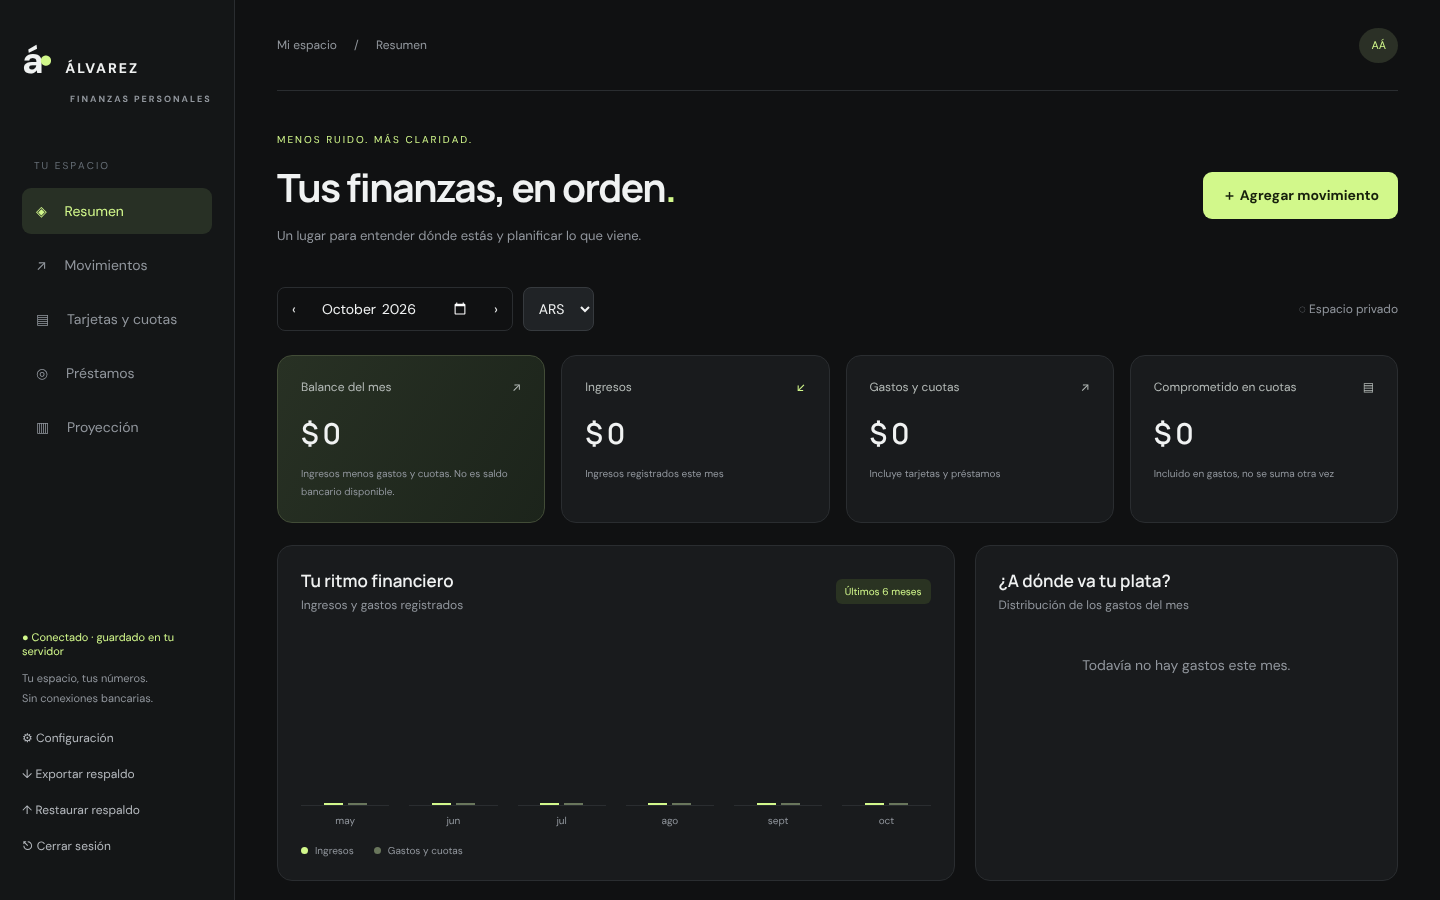
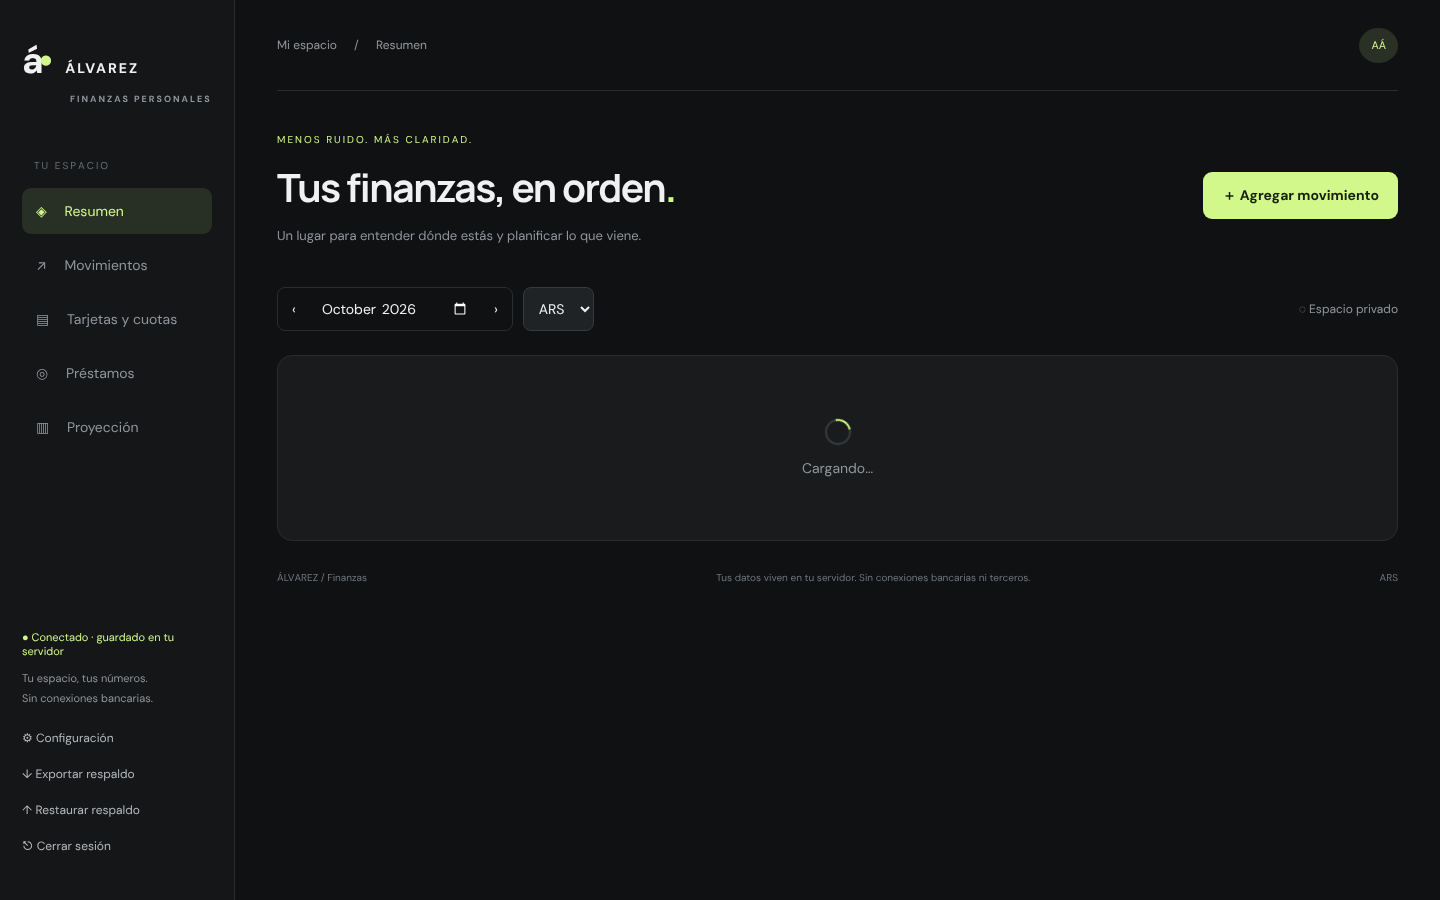
Estado: auditoría contra la especificación, correcciones y revisión; pendientes reales actualizados
- IMPLEMENTATION-STATUS: resultados de la auditoría y de la revisión adversarial, pruebas
  ejecutadas (79 unitarias, 72 de integración, 101 de frontend, E2E 11/11), operaciones
  ejecutadas en el despliegue de prueba y lista de pendientes que dependen de la VPS o del
  propietario. Sin la IP de la VPS en el repositorio.
- ASVS-L2: el contenedor de backup corre como uid 1654; root solo en la extracción de restauraciones.
- Capturas visuales regeneradas por el E2E.

Claude-Session: https://claude.ai/code/session_01Uy4Mof25YDrB6waqMWu1K8

diff --git a/docs/IMPLEMENTATION-STATUS.md b/docs/IMPLEMENTATION-STATUS.md
@@ -1,6 +1,6 @@
 # Estado de implementación
 
-Actualizado: 22/10/2026. Rama `implementacion-v1` del repo `augussto12/eBalance`. Todo se construyó y verificó en un contenedor cloud de desarrollo (Linux, Docker 29.9, .NET SDK 10.0.113, Node 22.22, Chromium 141.0.7390.37). **No se tocó la VPS.**
+Actualizado: 23/10/2026. Rama `implementacion-v1` del repo `augussto12/eBalance`. Todo se construyó y verificó en un contenedor cloud de desarrollo (Linux, Docker 29.9, .NET SDK 10.0.113, Node 22.22, Chromium 141.0.7390.37). **No se tocó la VPS.**
 
 ## Resumen honesto
 
@@ -8,13 +8,22 @@ La app funciona de punta a punta en local sobre el stack de producción: TLS →
 
 **No está lista para datos reales** hasta completar en la VPS: HTTPS real, `preflight.sh` en verde, copia de backup fuera del servidor y un `restore-test.sh` exitoso ahí (gates de `AGENTS.md`). No es una auditoría de seguridad: es una implementación con pruebas, que pueden no cubrir todo.
 
+**Auditoría contra la especificación (23/10/2026).** Fue independiente y multiagente, y verificó cada hueco: revisó unos 385 requisitos de docs/00–06 y `AGENTS.md`. El resultado inicial fue:
+- 262 hechos y probados;
+- 56 hechos sin prueba;
+- 46 parciales;
+- 2 faltantes;
+- 14 que dependen de la VPS o de una decisión del propietario.
+
+Se corrigieron los huecos del repositorio en cinco ramas: pagos y planes, claves y seguridad, detalles de UI, operación y documentación. Después hubo una revisión adversarial del resultado: confirmó 23 hallazgos, todos corregidos y probados (ver «Bugs encontrados»). Lo que sigue abierto está en «Pendiente».
+
 ## Fases
 
 | Fase | Estado | Evidencia |
 |---|---|---|
-| 1. Inventario, versiones, dominio exacto | Hecha | `docs/VERSIONES.md`; 45 pruebas unitarias |
+| 1. Inventario, versiones, dominio exacto | Hecha | `docs/VERSIONES.md`; 79 pruebas unitarias |
 | 2. UI React fiel a `reference/` | Hecha | CSS original portado sin cambios; diferencia de píxeles 1,1 % (1440×900) y 1,1 % (390×844) — ver abajo |
-| 3. Auth, MFA, sesiones, ownership, esquema | Hecha | 28 pruebas de integración contra PostgreSQL 18 real |
+| 3. Auth, MFA, sesiones, ownership, esquema | Hecha | 72 pruebas de integración contra PostgreSQL 18 real; filtro global por propietario como defensa adicional; key ring que falla cerrado |
 | 4. CRUD, cuotas, pagos, transferencias, resumen, proyección | Hecha | Integración + E2E |
 | 5. Importación del prototipo y exportación/restauración versionada | Hecha | Integración + E2E |
 | 6. Endurecimiento, imágenes, Compose, Nginx, backup/restore, docs | Hecha en local | Scripts ejecutados (ver abajo). Instalador de la VPS probado en un entorno que la simula; **despliegue en la VPS real pendiente** |
@@ -23,24 +32,30 @@ La app funciona de punta a punta en local sobre el stack de producción: TLS →
 
 | Comando | Resultado |
 |---|---|
-| `dotnet test --project tests/unit/AlvarezFinanzas.UnitTests` | 45/45 OK |
-| `dotnet test --project tests/integration/AlvarezFinanzas.IntegrationTests` | 28/28 OK (Testcontainers, `postgres:18.6-alpine3.24`) |
-| `npx vitest run` (src/web) | 19/19 OK |
+| `dotnet build AlvarezFinanzas.slnx -c Release` (advertencias = errores) | OK, 0 advertencias |
+| `dotnet test --project tests/unit/AlvarezFinanzas.UnitTests` | 79/79 OK |
+| `dotnet test --project tests/integration/AlvarezFinanzas.IntegrationTests` | 72/72 OK (Testcontainers, `postgres:18.6-alpine3.24`) |
+| `npx vitest run` (src/web) | 101/101 OK |
 | `npm run build` / `tsc --noEmit` (src/web) | OK, sin errores de tipos |
-| `./infra/e2e/run.sh` (Playwright, stack completo con TLS) | 11/11 OK |
+| `./infra/e2e/run.sh` (Playwright, stack completo con TLS) | 11/11 OK (23/10/2026, sobre el código final, con Chromium 141 del entorno) |
 | `./infra/scripts/preflight.sh` (stack E2E levantado) | Preflight OK (incluye TLS y `check-config`) |
 | `./infra/scripts/backup.sh` | OK (restic 0.19.1, `restic check` sin errores) |
 | `./infra/scripts/restore-test.sh` | resultado=OK, 15–19 s; «Coincide con producción»; TOTP descifrable 1/1 |
 | `./infra/scripts/restore.sh latest` (pérdida simulada) | OK: 6/6 movimientos recuperados; tablas a nombre del migrador; sesiones revocadas |
 | `./infra/scripts/restore.sh latest --with-keyring` | OK |
 | `./infra/scripts/rotate-secrets.sh db-app` y `keyring-cert` | OK: la API reconecta y el certificado anterior descifra las claves viejas |
+| `./infra/scripts/rotate-secrets.sh db-app db-migrator keyring-cert restic` + `restic-confirm` (despliegue de prueba) | OK: API sana, backup posterior con la clave nueva del migrador, restore-test con el certificado rotado (TOTP 1/1) |
+| `./infra/scripts/deploy.sh --rollback <tag>` (dos veces) y con un tag inexistente | OK con smoke tests y `.release-history`; el tag inexistente se rechaza antes de tocar nada |
+| `infra/tests/offsite-backup.sh` (copia externa contra rest-server con autenticación y contra un destino de solo agregar) | OK: credenciales validadas, copia incremental, `--verify-offsite` con un dump de 433 KB, rotación de restic en dos fases |
+| `restore.sh --keyring-only` tras simular la pérdida del volumen de claves | OK: vuelve el key ring anterior, la base no se toca; un backup con `/keys` vacío falla y no reemplaza al último key ring |
+| Escaneo de imágenes (Trivy fijado, en CI y con `infra/scripts/scan-images.sh`) | Sin HIGH/CRITICAL corregibles en api, web y backup; excepciones con vencimiento en `infra/trivy-ignore.yaml` (restic 0.19.1, upstream) |
 | `./infra/scripts/recover-owner.sh` (stdin) | OK: MFA reiniciado, sesiones revocadas, evento `cli.recover_owner` |
 | `./infra/scripts/maintenance.sh` | OK |
 | `dotnet list … package --vulnerable --include-transitive` | Sin vulnerabilidades |
 | `npm audit` (web y e2e) | 0 vulnerabilidades |
 | Modo desarrollo (`dotnet run` + `vite` con proxy) | Login por el proxy: OK |
-| GitHub Actions `ci` (run 39853251610) | backend, frontend, images y secrets: OK |
-| `vps-install.sh --inspect` y la instalación completa, en un entorno que simula la VPS (Ubuntu 24.04, nginx 1.24 del host, IP 31.97.241.220 redirigida a local con iptables, Pebble 2.10 como ACME) | OK, `TLS_MODE=auto` → IP. Certificado de IP (perfil `shortlived`) por http-01 con el sitio temporal, sitio final, build, migración, smoke tests, preflight con TLS **verificado** (cadena + IP), backup y restore-test (resultado=OK, 27 s). Re-ejecución sobre una instalación a medias y `--inspect` sobre una completa: OK. En `install.log` no hay montos ni secretos |
+| GitHub Actions `ci` (run 39898212594, commit b5ae0fb) | backend, frontend, scripts (shellcheck, alertas, systemd), images (Trivy, logs de Nginx) y secrets (gitleaks): OK |
+| `vps-install.sh --inspect` y la instalación completa, en un entorno que simula la VPS (Ubuntu 24.04, nginx 1.24 del host, IP pública de la VPS redirigida a local con iptables, Pebble 2.10 como ACME) | OK, `TLS_MODE=auto` → IP. Certificado de IP (perfil `shortlived`) por http-01 con el sitio temporal, sitio final, build, migración, smoke tests, preflight con TLS **verificado** (cadena + IP), backup y restore-test (resultado=OK, 27 s). Re-ejecución sobre una instalación a medias y `--inspect` sobre una completa: OK. En `install.log` no hay montos ni secretos |
 | Verificación externa del sitio instalado | HTTP/2 200 con CSP; `http://` → 301 a `https://`; Host o SNI ajenos → 421; `/api/v1/entries` sin sesión → 401; web solo en `127.0.0.1:8088` |
 | `install-nginx-site.sh` con `nginx -t` fallido, con otro sitio roto y `--acme-only`/`--remove-acme` | Restaura el sitio anterior sin recargar; no toca nada si `nginx -t` ya fallaba; el sitio temporal responde antes de pedir el certificado |
 | `certbot.sh` (Pebble): cambio de IP del mismo linaje, renovación no vencida y renovación forzada | Reemplaza el certificado sin intervención; sin renovación no recarga Nginx; con renovación recarga una vez |
@@ -110,22 +125,66 @@ Diferencias **intencionales** respecto del prototipo:
 
 ## Pendiente / no probado (no marcar en verde)
 
-1. **Despliegue en la VPS real:** nada se ejecutó allí todavía. Este entorno de desarrollo no tiene salida de red hacia la VPS, así que el instalador lo corre el propietario. Falta: el certificado de Let's Encrypt real (acá se usó Pebble, la CA de prueba oficial), la convivencia con los sitios reales del Nginx existente, el `nmap` externo y medir el RTO. HSTS solo si se usa un dominio propio dedicado.
-2. **Copia de backup fuera de la VPS** (`OFFSITE_RESTIC_REPOSITORY`): implementada, no probada. Falta elegir destino.
-3. CI: el primer run falló por un control demasiado ingenuo de «secretos en el bundle» (la palabra `password` de los formularios); se corrigió. El run 39853251610 pasó completo: backend, frontend, imágenes y gitleaks sobre todo el historial.
-4. `rotate-secrets.sh restic` y `db-migrator`: no ejecutados.
-5. Alertas fuera del servidor: solo hay unidades systemd que fallan; falta elegir canal (`OnFailure=`).
-6. Escaneo de imágenes de contenedor (Trivy/Grype): no ejecutado.
-7. La prueba de ingreso interactivo sobre un backup restaurado es manual (RUNBOOK §5).
-8. Accesibilidad: hay modal accesible, labels, foco y teclado, pero no se corrió una auditoría automática (axe) ni con lector de pantalla.
-9. Navegadores: E2E solo en Chromium. Safari/Firefox y celulares reales sin probar.
-10. Cifrado de conceptos/notas a nivel de aplicación: **no implementado** (opcional en la spec). Riesgo residual: un volcado de la base expone conceptos e importes en claro. El cifrado del volumen depende del proveedor de la VPS. Los backups sí van cifrados.
-11. Rendimiento con miles de registros y concurrencia real: no medidos más allá de las pruebas.
-12. Limitadores en memoria: válidos para una sola instancia de la API (así está desplegado).
-13. Retención de logs: limitada por tamaño, no por 30 días, salvo configurar journald (RUNBOOK §3).
+1. **Despliegue en la VPS real:** nada se ejecutó allí todavía, porque este entorno de desarrollo no tiene salida de red hacia la VPS y el instalador lo corre el propietario. Falta:
+   - el certificado de Let's Encrypt real (acá se usó Pebble, la CA de prueba oficial);
+   - la convivencia con los sitios y contenedores reales (por eso existe `vps-survey.sh`);
+   - el `nmap` externo;
+   - medir el RTO;
+   - repetir ahí `preflight.sh`, `backup.sh` y `restore-test.sh`.
+
+   HSTS solo con un dominio propio dedicado.
+2. **Destino de la copia externa:** decisión del propietario. Funciona y se probó contra un rest-server local, también en modo de solo agregar. No se probó con S3/B2 reales.
+3. **Destino de las alertas:** decisión del propietario. El mecanismo existe (`alert.sh`: webhook HTTPS o correo, nunca con contenido financiero) y se probó con un receptor local. Los timers y `OnFailure=` pasan `systemd-analyze verify`, pero no se vieron disparar bajo un systemd real.
+4. El ingreso interactivo sobre un backup restaurado es manual (RUNBOOK §5).
+5. Accesibilidad: hay modal accesible, labels, errores por campo, foco y teclado, pero no se corrió una auditoría automática (axe) ni con lector de pantalla.
+6. Navegadores: E2E solo en Chromium. Safari, Firefox y celulares reales sin probar. Los campos nativos de fecha y mes muestran el formato del idioma del navegador.
+7. Cifrado de conceptos y notas a nivel de aplicación: **no implementado** (opcional en la spec). Riesgo residual: un volcado de la base expone conceptos e importes en claro. Los backups sí van cifrados.
+8. No hay estado «conciliado» en los movimientos. El saldo cuenta todos los flujos registrados hasta hoy (nunca los futuros ni de otra moneda).
+9. Rendimiento con miles de registros y concurrencia real: no medidos más allá de las pruebas. Los limitadores en memoria valen para una sola instancia de la API, que es como está desplegado.
+10. Logs:
+    - la retención es por tamaño; los 30 días con journald son una opción documentada;
+    - el log de errores de Nginx no admite formato, así que ante un error del upstream registra la petición completa.
+11. Riesgos residuales documentados en `docs/ASVS-L2.md` (autoevaluación, no certificación):
+    - el bloqueo de cuenta puede provocarlo cualquiera que conozca el usuario;
+    - el administrador de la base o root pueden alterar la auditoría;
+    - restic 0.19.1 tiene hallazgos HIGH aceptados hasta 2027-01-31, a la espera de una versión upstream.
+12. El costo de PBKDF2 (≈159 ms por verificación) se midió en el contenedor de desarrollo; RUNBOOK indica cómo repetirlo en la VPS.
+13. Capas: `Application/Reports.cs` usa el `DbContext` directamente y `Domain` depende de ASP.NET Identity (patrón habitual; documentado).
 14. Fuera de alcance por especificación: CSV/PDF bancarios, notificaciones, tipos de cambio, presupuestos automáticos, recurrentes, passkeys.
 
 ## Bugs encontrados y corregidos durante la verificación
+
+Auditoría contra la especificación y revisión posterior (23/10/2026):
+
+- **Pagos:**
+  - No había forma de ver ni revertir un pago desde la app, así que un plan con pagos no se podía eliminar. Ahora existen el historial, la reversión con confirmación y versión, «Ver pagos» desde los errores y la paginación.
+  - Editar un plan después de revertir un pago daba 500. Ahora la edición se hace en el lugar y conserva el historial de asignaciones revertidas (migración nueva).
+  - Un pago con fecha futura bajaba el pendiente de la tarjeta antes que el saldo.
+  - Un pago concurrente con la eliminación del plan podía dejarlo borrado con pagos: ahora el pago sube la versión del plan.
+- **Importación v2:** un archivo editado podía mezclar monedas o crear transferencias inválidas. Ahora se valida igual que la API y se rechaza entero. Un fallo de serialización en el COMMIT daba 500.
+- **Saldo:** contaba movimientos futuros. Ahora cuenta hasta hoy en el calendario del propietario.
+- **API:**
+  - La restauración ignoraba la versión.
+  - La misma regla devolvía 400 en un endpoint y 422 en otro.
+  - Faltaba `GET /{id}` en cuentas y categorías.
+- **Claves:**
+  - Si se perdía el volumen de claves, Data Protection generaba claves nuevas en silencio. Ahora hay un centinela que hace fallar cerrado, `reset-key-ring` con confirmación y `restore.sh --keyring-only`.
+  - Un backup con `/keys` vacío pasaba a ser el «último» key ring.
+  - Rotar el certificado obligaba a guardar los anteriores para siempre. Ahora se vuelven a proteger el centinela y los TOTP con la clave actual.
+- **Operación:**
+  - La copia externa fallaba siempre con credenciales (`--env-file` no existe en `docker compose run`).
+  - `rotate-secrets.sh` rotaba solo el primer argumento, y rotar restic dejaba la copia externa ilegible.
+  - `--verify-offsite` se cortaba por SIGPIPE con dumps de más de 64 KiB.
+  - El Nginx del contenedor registraba las búsquedas (query string) y las IP completas.
+- **UI:**
+  - Las fechas y horas no salían en dd/MM/yyyy HH:mm.
+  - Faltaban errores por campo.
+  - La confirmación de importación no era un modal.
+  - Las contraseñas de más de 128 caracteres se truncaban en silencio.
+  - Había listas con datos viejos sin aviso al fallar una recarga.
+
+Antes:
+
 
 Revisión adversarial del instalador de la VPS (multiagente, con verificación independiente de cada hallazgo):
 

diff --git a/docs/ASVS-L2.md b/docs/ASVS-L2.md
@@ -153,7 +153,7 @@ Los secretos de 48 caracteres salen de `openssl rand` (`bootstrap-secrets.sh:16`
 | 1.1.5 | Arquitectura de alto nivel y servicios remotos analizados | cumple | Ídem, incluidos los servicios remotos. |
 | 1.1.6 | Controles de seguridad centralizados y reutilizables | cumple | Políticas únicas (`API/Program.cs:144-166`); validación (`API/Api/ApiSupport.cs:8-77`); referencias por propietario (`API/Api/EntryEndpoints.cs:175-192`); CSRF (`API/Api/Middleware.cs:43-74`); límites (`API/Infrastructure/Auth/Security.cs:118-169`); auditoría (`API/Infrastructure/Audit.cs`). |
 | 1.1.7 | Guía de codificación segura disponible | cumple | `AGENTS.md`, sección «Trabajo»: sin `dangerouslySetInnerHTML`, eval, SQL interpolado ni criptografía casera, entre otras reglas; `docs/03-SEGURIDAD.md`. |
-| 1.2.1 | Cuentas de SO únicas y de bajo privilegio por componente | parcial | `api` corre como `APP_UID` 1654 (`infra/docker/api.Dockerfile:30`); `web` usa nginx-unprivileged (`infra/docker/web.Dockerfile:4`); `cap_drop: ALL` y `no-new-privileges` (`compose.yaml:8-14`). El contenedor `backup` corre como root con `DAC_OVERRIDE`, `CHOWN` y `FOWNER` (`compose.yaml:104-107`). |
+| 1.2.1 | Cuentas de SO únicas y de bajo privilegio por componente | parcial | `api` corre como `APP_UID` 1654 (`infra/docker/api.Dockerfile:30`); `web` usa nginx-unprivileged (`infra/docker/web.Dockerfile:4`); `cap_drop: ALL` y `no-new-privileges` (`compose.yaml:8-14`). El contenedor `backup` corre como uid 1654 (`infra/docker/backup.Dockerfile:15`, `compose.yaml:106`); solo la extracción de restauraciones usa `--user 0` con `DAC_OVERRIDE`, `CHOWN` y `FOWNER` para escribir en un directorio temporal del host y conservar dueños del key ring (`compose.yaml:110-113`, `infra/scripts/restore-test.sh:38`). |
 | 1.2.2 | Comunicación entre componentes autenticada y con mínimo privilegio | parcial | API → base: SCRAM-SHA-256 con un rol solo DML (`compose.yaml:25`, `Cli.cs:82-90`). `web` → `api` y host → `web` no se autentican: dependen del aislamiento de red y loopback. |
 | 1.2.3 | Un mecanismo de autenticación único y probado | cumple | ASP.NET Core Identity, cookies con ticket en servidor y TOTP (`API/Program.cs:115-142`); eventos auditados (`API/Api/AuthEndpoints.cs:134-157`). |
 | 1.2.4 | Todas las vías de autenticación con la misma fortaleza | cumple | Solo hay contraseña + TOTP; la alternativa al TOTP son códigos de recuperación de un uso. Sin registro ni recuperación pública (`AuthEndpoints.cs:28-54`); la CLI exige SSH. |
@@ -440,7 +440,7 @@ Los secretos de 48 caracteres salen de `openssl rand` (`bootstrap-secrets.sh:16`
 |---|---|---|---|
 | 14.1.1 | Build y despliegue seguros y repetibles | cumple | CI (`ci.yml`), `deploy.sh`, `vps-install.sh`, lockfiles y `--locked-mode`. |
 | 14.1.2 | Flags del compilador contra desbordes | no aplica | Código administrado sin `unsafe`; `TreatWarningsAsErrors` (`Directory.Build.props`). |
-| 14.1.3 | Configuración del servidor endurecida | cumple | Sin header `Server` y con límites en Kestrel (`API/Program.cs:59-64`); `server_tokens off` (`NGX/web/default.conf:6`, `NGX/finanzas.conf:30`); contenedores `read_only`, sin capacidades y no root (salvo `backup`, ver 1.2.1); PostgreSQL con `scram-sha-256` y checksums (`compose.yaml:25`); `DOTNET_EnableDiagnostics=0` (`api.Dockerfile:27`). |
+| 14.1.3 | Configuración del servidor endurecida | cumple | Sin header `Server` y con límites en Kestrel (`API/Program.cs:59-64`); `server_tokens off` (`NGX/web/default.conf:6`, `NGX/finanzas.conf:30`); contenedores `read_only`, sin capacidades y no root (la extracción de restauraciones usa root temporalmente, ver 1.2.1); PostgreSQL con `scram-sha-256` y checksums (`compose.yaml:25`); `DOTNET_EnableDiagnostics=0` (`api.Dockerfile:27`). |
 | 14.1.4 | Redesplegable y restaurable con runbook probado | parcial | `docs/RUNBOOK.md` y los scripts de despliegue, backup y restore, ejecutados en local según `docs/IMPLEMENTATION-STATUS.md:22-49` (no repetidos en esta revisión). Falta hacerlo en la VPS. |
 | 14.2.1 | Componentes actualizados, con verificador de dependencias | parcial | `dotnet list --vulnerable`, `npm audit` y NuGetAudit en CI (`ci.yml:23-26,45`; `Directory.Build.props`). Las imágenes de contenedor no se escanean y las dependencias de `tests/e2e` no se auditan en CI. |
 | 14.2.2 | Sin funciones, ejemplos ni configuración innecesarios | cumple | Sin OpenAPI ni Swagger (`AlvarezFinanzas.Api.csproj:6`); `/dev/demo` solo existe en Development (`API/Api/DevEndpoints.cs:17`); la imagen no incluye `appsettings.Development.json` (`api.Dockerfile:16-17`). No hay prueba automatizada de la ausencia de `/dev/demo` en producción. |
